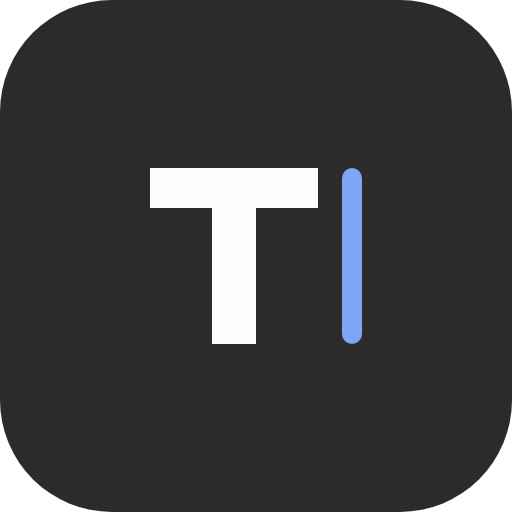
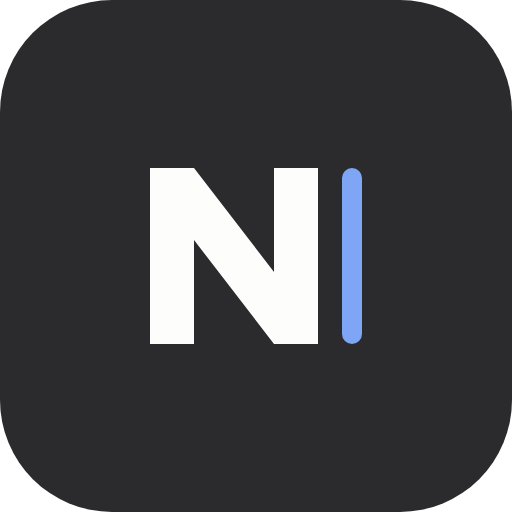
chore: rename the app to Nib
Typer described the act rather than the tool. Nib, the tip of a pen, is short and fits a
minimal writing app. The name, storage key, cache prefix and icon change with it: the icon's
T becomes an N beside the same cursor, and the PNGs are rendered again from the SVG.

Claude-Session: https://claude.ai/code/session_01TZBSSURA5kpLduMka5BbzR

Changed region(s): [[0.2812, 0.3125, 0.625, 0.6875]]

diff --git a/e2e/files.spec.ts b/e2e/files.spec.ts
@@ -52,10 +52,10 @@ test.describe('with the File System Access API', () => {
     await page.keyboard.press('ControlOrMeta+o')
     await expect(page.getByText('notes.md')).toBeVisible()
     await page.keyboard.type('new ')
-    await expect(page).toHaveTitle('• notes.md — typer')
+    await expect(page).toHaveTitle('• notes.md — nib')
     await page.keyboard.press('ControlOrMeta+s')
 
-    await expect(page).toHaveTitle('notes.md — typer')
+    await expect(page).toHaveTitle('notes.md — nib')
     expect(await readText(page, 'notes.md')).toBe('new first\r\nsecond')
   })
 
@@ -69,7 +69,7 @@ test.describe('with the File System Access API', () => {
     await writeText(page, 'notes.md', 'one 2 three')
     await page.evaluate(() => window.dispatchEvent(new Event('focus')))
     await expect(lines(page)).toHaveText(['one 2 three'])
-    await expect(page).toHaveTitle('notes.md — typer')
+    await expect(page).toHaveTitle('notes.md — nib')
 
     // The cursor stayed at the end of the line.
     await page.keyboard.type('!')
@@ -83,7 +83,7 @@ test.describe('with the File System Access API', () => {
       .click()
 
     await expect(lines(page)).toHaveText(['changed again'])
-    await expect(page).toHaveTitle('notes.md — typer')
+    await expect(page).toHaveTitle('notes.md — nib')
   })
 
   test('opens a folder, and switches between its files, keeping their edits', async ({ page }) => {
@@ -125,16 +125,16 @@ test.describe('with the File System Access API', () => {
     await files.getByRole('button', { name: 'New file' }).click()
     await page.keyboard.type('plans')
     await page.keyboard.press('Enter')
-    await expect(page).toHaveTitle('plans.md — typer')
+    await expect(page).toHaveTitle('plans.md — nib')
     await page.keyboard.type('# Plans')
     await page.keyboard.press('ControlOrMeta+s')
-    await expect(page).toHaveTitle('plans.md — typer')
+    await expect(page).toHaveTitle('plans.md — nib')
 
     await files.getByRole('button', { name: 'plans.md', exact: true }).hover()
     await files.getByRole('button', { name: 'Rename plans.md' }).click()
     await page.keyboard.type('goals')
     await page.keyboard.press('Enter')
-    await expect(page).toHaveTitle('goals.md — typer')
+    await expect(page).toHaveTitle('goals.md — nib')
     expect(await readText(page, 'goals.md')).toBe('# Plans')
     expect(await exists('plans.md')).toBe(false)
 
@@ -146,7 +146,7 @@ test.describe('with the File System Access API', () => {
       .click()
     await expect(files.getByRole('button', { name: 'goals.md', exact: true })).toBeHidden()
     expect(await exists('goals.md')).toBe(false)
-    await expect(page).toHaveTitle('Untitled.md — typer')
+    await expect(page).toHaveTitle('Untitled.md — nib')
   })
 
   test('shows images and opens notes from relative paths in the folder', async ({ page }) => {
@@ -183,7 +183,7 @@ test.describe('with the File System Access API', () => {
     expect(await image.evaluate((element: HTMLImageElement) => element.naturalWidth)).toBe(1)
 
     await page.getByText('today', { exact: true }).click({ modifiers: ['ControlOrMeta'] })
-    await expect(page).toHaveTitle('today.md — typer')
+    await expect(page).toHaveTitle('today.md — nib')
     await expect(lines(page)).toHaveText(['# Today'])
   })
 
@@ -191,7 +191,7 @@ test.describe('with the File System Access API', () => {
     await page.keyboard.type('# Draft')
     await runCommand(page, 'Save')
 
-    await expect(page).toHaveTitle('saved.md — typer')
+    await expect(page).toHaveTitle('saved.md — nib')
     expect(await readText(page, 'saved.md')).toBe('# Draft')
   })
 })
@@ -230,7 +230,7 @@ test.describe('without the File System Access API', () => {
 
     expect(download.suggestedFilename()).toBe('notes.txt')
     expect(await readFile(await download.path(), 'utf8')).toBe('zero one\r\ntwo')
-    await expect(page).toHaveTitle('notes.txt — typer')
+    await expect(page).toHaveTitle('notes.txt — nib')
   })
 
   test('keeps a UTF-8 byte-order mark', async ({ page }) => {
@@ -253,7 +253,7 @@ test.describe('without the File System Access API', () => {
     ).setFiles({ name: 'latin1.txt', mimeType: 'text/plain', buffer: Buffer.from([0x63, 0xe9]) })
 
     await expect(page.getByRole('alert')).toHaveText('latin1.txt isn’t a UTF-8 text file.')
-    await expect(page).toHaveTitle('Untitled.md — typer')
+    await expect(page).toHaveTitle('Untitled.md — nib')
   })
 
   test('treats files without a Markdown extension as plain text', async ({ page }) => {
@@ -281,7 +281,7 @@ test.describe('dropping a file', () => {
     await expect(page.getByText('Drop to open')).toBeVisible()
     await editor.dispatchEvent('drop', { dataTransfer })
 
-    await expect(page).toHaveTitle('dropped.md — typer')
+    await expect(page).toHaveTitle('dropped.md — nib')
     // The cursor is on the heading, so its markup shows.
     await expect(lines(page)).toHaveText(['# Dropped'])
     await expect(page.getByText('Drop to open')).toBeHidden()

diff --git a/src/App.svelte.test.ts b/src/App.svelte.test.ts
@@ -60,13 +60,13 @@ describe('App', () => {
     expect(screen.getByText('Untitled.md')).toBeInTheDocument()
     expect(screen.queryByText('Edited')).not.toBeInTheDocument()
     await vi.waitFor(() => {
-      expect(document.title).toBe('Untitled.md — typer')
+      expect(document.title).toBe('Untitled.md — nib')
     })
 
     type('text')
 
     expect(await screen.findByText('Edited')).toBeInTheDocument()
-    expect(document.title).toBe('• Untitled.md — typer')
+    expect(document.title).toBe('• Untitled.md — nib')
   })
 
   it('counts lines, words and characters, or those selected', async () => {

diff --git a/e2e/installable.spec.ts b/e2e/installable.spec.ts
@@ -27,7 +27,7 @@ test.describe('installed app', () => {
     })
 
     expect(manifest).toMatchObject({
-      name: 'typer',
+      name: 'nib',
       display: 'standalone',
       start_url: './',
       file_handlers: [
@@ -57,7 +57,7 @@ test.describe('installed app', () => {
 
     await page.goto('/')
 
-    await expect(page).toHaveTitle('launched.md — typer')
+    await expect(page).toHaveTitle('launched.md — nib')
     await expect(page.getByRole('textbox', { name: 'Document' })).toContainText('Launched')
   })
 })

diff --git a/src/lib/preferences/preferences.svelte.test.ts b/src/lib/preferences/preferences.svelte.test.ts
@@ -4,7 +4,7 @@ import { Preferences } from './preferences.svelte'
 /** Storage in memory, starting with `saved` as the preferences. */
 const storageWith = (saved?: string): Storage => {
   const items = new Map<string, string>()
-  if (saved !== undefined) items.set('typer:preferences', saved)
+  if (saved !== undefined) items.set('nib:preferences', saved)
   return {
     getItem: (key: string) => items.get(key) ?? null,
     setItem: (key: string, value: string) => {

diff --git a/src/App.svelte b/src/App.svelte
@@ -49,7 +49,7 @@
       : '#fdfdfc',
   )
 
-  const title = $derived(`${workspace.file.dirty ? '• ' : ''}${workspace.file.name} — typer`)
+  const title = $derived(`${workspace.file.dirty ? '• ' : ''}${workspace.file.name} — nib`)
 
   /** The editor's selection, for the status bar. */
   let selection = $state.raw<EditorSelection | null>(null)

diff --git a/index.html b/index.html
@@ -7,7 +7,7 @@
     <link rel="manifest" href="/manifest.webmanifest" />
     <meta name="description" content="A minimal Markdown and text editor for local files." />
     <meta name="viewport" content="width=device-width, initial-scale=1.0" />
-    <title>typer</title>
+    <title>nib</title>
   </head>
   <body>
     <div id="app"></div>

diff --git a/e2e/app.spec.ts b/e2e/app.spec.ts
@@ -6,7 +6,7 @@ test.describe('editor', () => {
   })
 
   test('is focused and ready for input on load', async ({ page }) => {
-    await expect(page).toHaveTitle('Untitled.md — typer')
+    await expect(page).toHaveTitle('Untitled.md — nib')
     await expect(page.getByRole('textbox', { name: 'Document' })).toBeFocused()
   })
 

diff --git a/vite.config.ts b/vite.config.ts
@@ -12,7 +12,7 @@ import { configDefaults, defineConfig } from 'vitest/config'
 const serviceWorker = (): Plugin => {
   let publicDir = ''
   return {
-    name: 'typer:service-worker',
+    name: 'nib:service-worker',
     apply: 'build',
     // After Vite's own plugins, which emit the HTML.
     enforce: 'post',

diff --git a/src/serviceWorker.ts b/src/serviceWorker.ts
@@ -11,7 +11,7 @@ declare const self: ServiceWorkerGlobalScope
 declare const __PRECACHE__: string[]
 declare const __VERSION__: string
 
-const prefix = 'typer-'
+const prefix = 'nib-'
 const cacheName = prefix + __VERSION__
 
 self.addEventListener('install', (event) => {

diff --git a/src/lib/preferences/preferences.svelte.ts b/src/lib/preferences/preferences.svelte.ts
@@ -1,6 +1,6 @@
 import type { Appearance } from '$lib/editor/theme'
 
-const storageKey = 'typer:preferences'
+const storageKey = 'nib:preferences'
 
 export const themes = ['system', 'light', 'dark'] as const
 export type Theme = (typeof themes)[number]

diff --git a/README.md b/README.md
@@ -1,4 +1,4 @@
-# typer
+# nib
 
 A minimal Markdown and text editor for local files, built on [CodeMirror 6](https://codemirror.net)
 with [Svelte 5](https://svelte.dev), [TypeScript](https://www.typescriptlang.org) and
